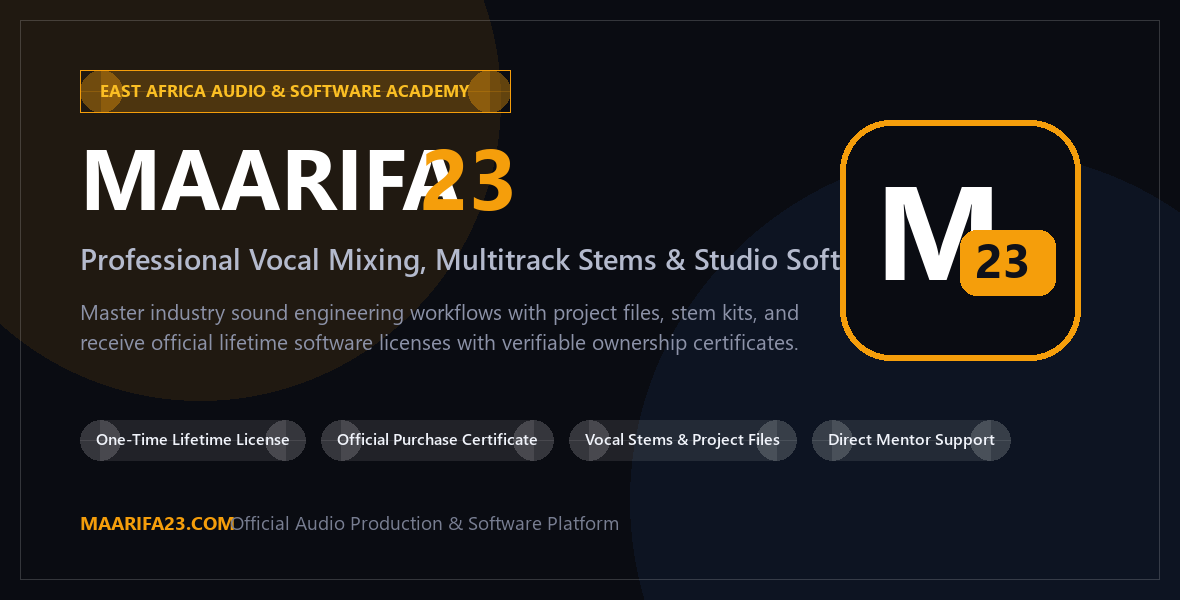
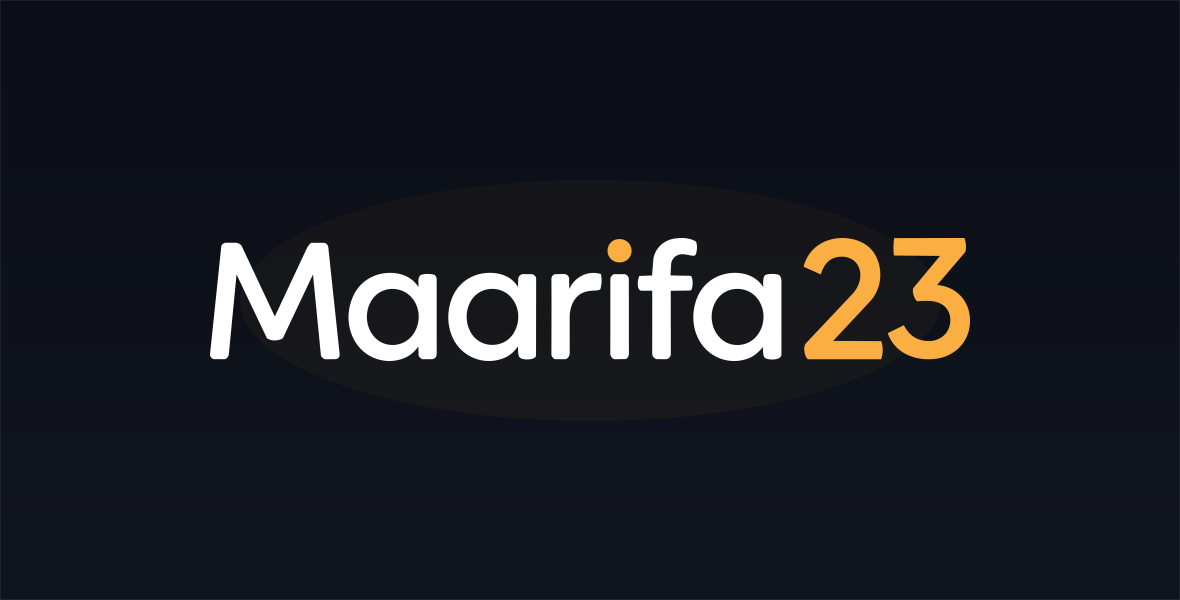
fix(branding): use official Maarifa23 master assets Asset 3 and Asset 4 across all views and remove artificial placeholders

diff --git a/core/resources/views/admin/partials/sidenav.blade.php b/core/resources/views/admin/partials/sidenav.blade.php
@@ -16,7 +16,7 @@
         <div class="sidebar__logo p-0 border-0">
             <div class="ak23-admin-logo-box">
                 <a href="{{ route('admin.dashboard') }}" class="d-flex align-items-center gap-2 text-decoration-none flex-grow-1">
-                    <img src="{{ siteLogo('dark') }}" alt="{{ gs('site_name') }}" class="m23-sidebar-brand-img" style="height: 32px; max-width: 150px; object-fit: contain;">
+                    <img src="{{ siteLogo('dark') }}" alt="{{ gs('site_name') }}" class="m23-sidebar-brand-img" style="height: 32px; max-width: 165px; width: auto; object-fit: contain;">
                 </a>
                 <!-- Sleek Core/All View Toggle Icon Button -->
                 <button type="button" class="ak23-view-toggle-btn {{ $isAnySubActive ? 'all-active' : '' }}" id="ak23GlobalViewToggle" title="Toggle Core View (AKCOURSE.png) / All Components">
@@ -358,20 +358,12 @@
     border-bottom: 1px solid rgba(255, 255, 255, 0.05);
 }
 
-.ak23-admin-logo-square {
-    width: 34px;
-    height: 34px;
-    border-radius: 8px;
-    background-color: #FBAF43;
-    color: #0A0D12;
-    font-family: 'Plus Jakarta Sans', -apple-system, sans-serif;
-    font-weight: 900;
-    font-size: 14px;
-    display: flex;
-    align-items: center;
-    justify-content: center;
-    box-shadow: 0 3px 12px rgba(251, 175, 67, 0.35);
-    flex-shrink: 0;
+.m23-sidebar-brand-img {
+    height: 32px;
+    max-width: 165px;
+    width: auto;
+    object-fit: contain;
+    display: block;
 }
 
 .ak23-admin-brand-title {

diff --git a/core/resources/views/templates/basic/layouts/portal.blade.php b/core/resources/views/templates/basic/layouts/portal.blade.php
@@ -33,14 +33,9 @@
          ========================================================================= -->
     <aside class="ak23-portal-sidebar">
         <!-- Brand Header -->
-        <a href="{{ route('home') }}" class="ak23-portal-brand text-decoration-none">
-            <div class="ak23-portal-logo-square">
-                <span>M23</span>
-            </div>
-            <div class="ak23-portal-brand-meta">
-                <span class="ak23-portal-brand-title">Maarifa23</span>
-                <span class="ak23-portal-brand-subtitle">STUDENT PORTAL</span>
-            </div>
+        <a href="{{ route('home') }}" class="ak23-portal-brand text-decoration-none d-flex flex-column gap-1">
+            <img src="{{ siteLogo('dark') }}" alt="{{ gs('site_name') }}" class="ak23-portal-logo-img" style="height: 28px; max-width: 175px; width: auto; object-fit: contain;">
+            <span class="ak23-portal-brand-subtitle text-muted fs-10 fw-bold letter-spacing-1 ps-1" style="font-size: 10px; letter-spacing: 0.1em; opacity: 0.7;">STUDENT PORTAL</span>
         </a>
 
         <!-- Navigation Menu -->

diff --git a/core/resources/views/templates/basic/user/auth/login.blade.php b/core/resources/views/templates/basic/user/auth/login.blade.php
@@ -84,7 +84,7 @@
                         <div class="ak23-auth-card-header">
                             <div class="ak23-auth-card-topmark">
                                 <div class="ak23-auth-mark-icon">
-                                    <img src="{{ asset('assets/images/logo_icon/logo_dark.png') }}" alt="{{ gs('site_name') }}" style="height: 28px; max-width: 130px; object-fit: contain;">
+                                    <img src="{{ siteLogo('dark') }}" alt="{{ gs('site_name') }}" style="height: 28px; max-width: 150px; object-fit: contain;">
                                 </div>
                                 <span class="ak23-auth-mark-label">Student Authentication</span>
                             </div>

diff --git a/core/resources/views/templates/basic/user/auth/register.blade.php b/core/resources/views/templates/basic/user/auth/register.blade.php
@@ -85,7 +85,7 @@
                         <div class="ak23-auth-card-header">
                             <div class="ak23-auth-card-topmark">
                                 <div class="ak23-auth-mark-icon">
-                                    <img src="{{ asset('assets/images/logo_icon/logo_dark.png') }}" alt="{{ gs('site_name') }}" style="height: 28px; max-width: 130px; object-fit: contain;">
+                                    <img src="{{ siteLogo('dark') }}" alt="{{ gs('site_name') }}" style="height: 28px; max-width: 150px; object-fit: contain;">
                                 </div>
                                 <span class="ak23-auth-mark-label">Student Registration</span>
                             </div>

diff --git a/core/resources/views/admin/auth/login.blade.php b/core/resources/views/admin/auth/login.blade.php
@@ -80,7 +80,7 @@
                         <div class="ak-admin-card-header">
                             <div class="ak-admin-topmark">
                                 <div class="ak-admin-logo-mark">
-                                    <img src="{{ asset('assets/images/logo_icon/logo_dark.png') }}" alt="{{ gs('site_name') }}" style="height: 28px; max-width: 130px; object-fit: contain;">
+                                    <img src="{{ siteLogo('dark') }}" alt="{{ gs('site_name') }}" style="height: 28px; max-width: 150px; object-fit: contain;">
                                 </div>
                                 <span class="ak-admin-topmark-label">Master Administration</span>
                             </div>

diff --git a/core/resources/views/admin/auth/passwords/email.blade.php b/core/resources/views/admin/auth/passwords/email.blade.php
@@ -12,7 +12,9 @@
             <div class="ak-admin-card">
                 <div class="ak-admin-card-header text-center">
                     <div class="ak-admin-topmark justify-content-center">
-                        <div class="ak-admin-logo-mark">AK</div>
+                        <div class="ak-admin-logo-mark">
+                            <img src="{{ siteLogo('dark') }}" alt="{{ gs('site_name') }}" style="height: 28px; max-width: 130px; object-fit: contain;">
+                        </div>
                         <span class="ak-admin-topmark-label">Account Recovery</span>
                     </div>
                     <h2 class="ak-admin-card-title">@lang('Reset Admin Password')</h2>

diff --git a/core/resources/views/templates/basic/partials/footer.blade.php b/core/resources/views/templates/basic/partials/footer.blade.php
@@ -3,7 +3,7 @@
         <div class="ak23-footer-top">
             <div>
                 <a class="ak23-brand" href="{{ route('home') }}">
-                    <img src="{{ siteLogo('dark') }}" alt="{{ gs('site_name') }}" style="height: 28px; max-width: 140px; object-fit: contain;">
+                    <img src="{{ siteLogo('dark') }}" alt="{{ gs('site_name') }}" style="height: 28px; max-width: 175px; width: auto; object-fit: contain;">
                 </a>
                 <p class="ak23-footer-tagline">Practical audio & software education. Built for modern creators.</p>
             </div>

diff --git a/core/resources/views/templates/basic/partials/header.blade.php b/core/resources/views/templates/basic/partials/header.blade.php
@@ -12,7 +12,7 @@
                 @php
                     $logoDark = siteLogo('dark');
                 @endphp
-                <img src="{{ $logoDark }}" alt="{{ gs('site_name') }}" style="height: 32px; max-width: 155px; object-fit: contain;">
+                <img src="{{ $logoDark }}" alt="{{ gs('site_name') }}" style="height: 32px; max-width: 200px; width: auto; object-fit: contain;">
             </a>
 
             <!-- Desktop Nav Links (Fully Dynamic Backend Driven) -->
